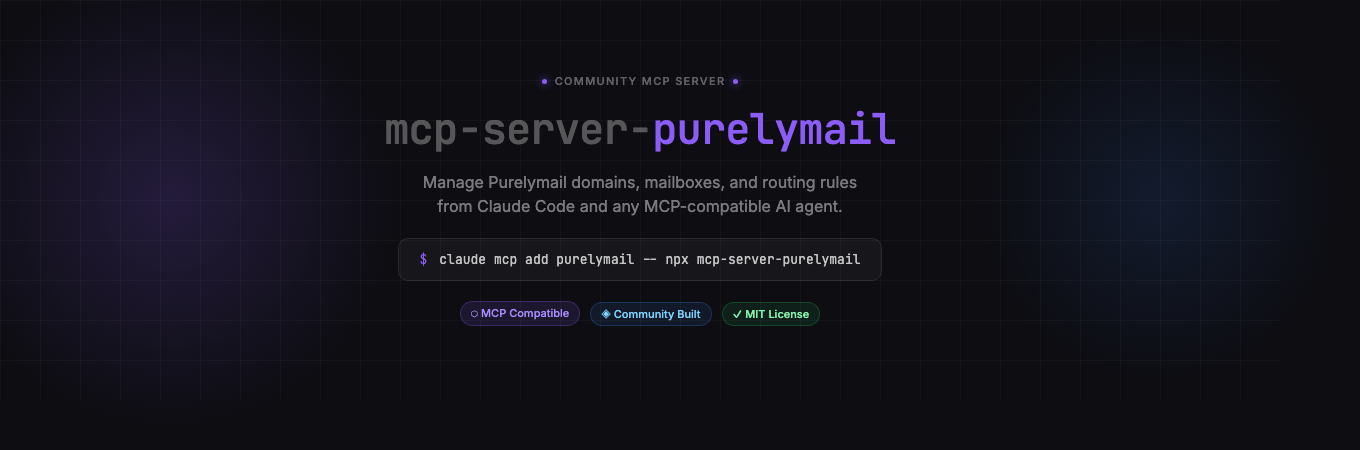
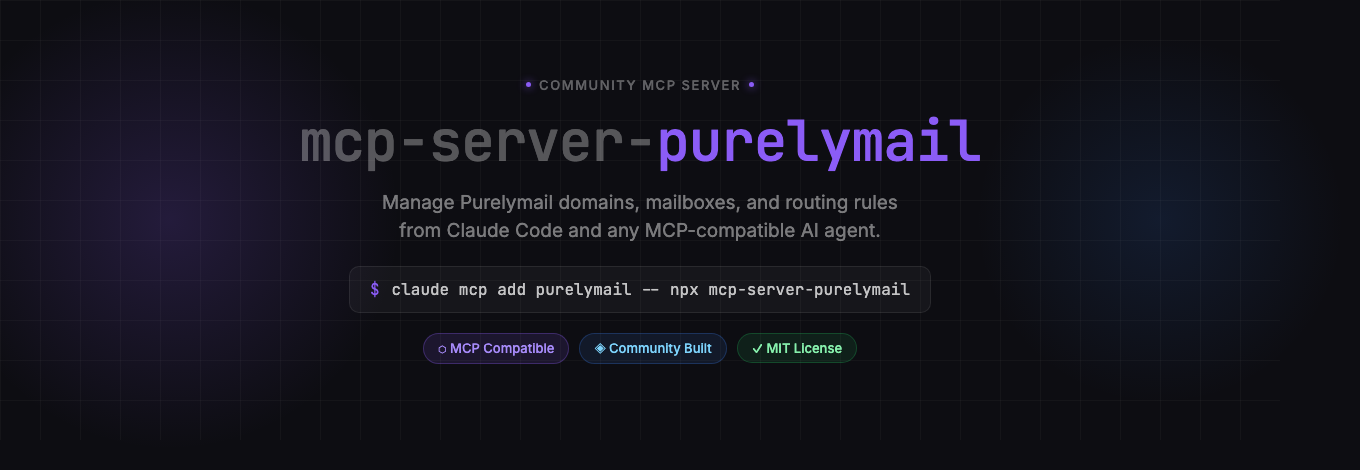
design: scale up hero and diagram images
Hero: +10% taller (440px), larger title (56px), tagline (19px),
install command (16px), and badges (13px) for better readability.

Diagram: +53% taller (520px), all elements scaled up ~35%,
layout spans full width with centered distribution, wider
connecting lines, larger node icons and card text.

Changed region(s): [[0.2162, 0.2489, 0.7412, 0.5289], [0.2471, 0.56, 0.6794, 0.7778], [0.3706, 0.1556, 0.5559, 0.1867]]

diff --git a/assets/diagram.html b/assets/diagram.html
@@ -10,7 +10,7 @@
   *, *::before, *::after { box-sizing: border-box; margin: 0; padding: 0; }
   body {
     width: 1280px;
-    height: 340px;
+    height: 520px;
     overflow: hidden;
     background: #0d0d12;
     font-family: 'Inter', system-ui, sans-serif;
@@ -42,8 +42,9 @@
     z-index: 1;
     display: flex;
     align-items: center;
-    gap: 0;
-    width: 1100px;
+    justify-content: center;
+    gap: 24px;
+    width: 1240px;
   }
 
   /* ── Nodes ── */
@@ -55,8 +56,8 @@
     flex-shrink: 0;
   }
   .node-icon {
-    width: 72px; height: 72px;
-    border-radius: 18px;
+    width: 96px; height: 96px;
+    border-radius: 22px;
     display: flex;
     align-items: center;
     justify-content: center;
@@ -64,21 +65,21 @@
     position: relative;
     overflow: hidden;
   }
-  .node-icon img { width: 42px; height: 42px; object-fit: contain; }
+  .node-icon img { width: 56px; height: 56px; object-fit: contain; }
   .node-icon-claude {
     background: rgba(255,255,255,0.04);
     border-color: rgba(255,255,255,0.1);
   }
-  .node-icon-claude .claude-svg { width: 44px; height: 44px; }
+  .node-icon-claude .claude-svg { width: 58px; height: 58px; }
   .node-title {
-    font-size: 12px; font-weight: 600;
+    font-size: 15px; font-weight: 600;
     color: rgba(255,255,255,0.8);
     white-space: nowrap;
     text-align: center;
   }
   .node-sub {
     font-family: 'JetBrains Mono', monospace;
-    font-size: 9px; color: rgba(255,255,255,0.28);
+    font-size: 11px; color: rgba(255,255,255,0.28);
     white-space: nowrap; text-align: center;
   }
 
@@ -89,17 +90,17 @@
     justify-content: center;
     gap: 0;
     margin: 0 8px;
-    margin-bottom: 26px;
+    margin-bottom: 40px;
   }
   .fork-arm {
     display: flex;
     align-items: center;
     gap: 0;
   }
-  .fork-arm-top { padding-bottom: 16px; }
-  .fork-arm-bottom { padding-top: 16px; }
+  .fork-arm-top { padding-bottom: 36px; }
+  .fork-arm-bottom { padding-top: 36px; }
   .fork-line-h {
-    width: 72px; height: 1px;
+    width: 140px; height: 1px;
     background: linear-gradient(90deg, rgba(255,255,255,0.12), var(--line-color));
     position: relative;
   }
@@ -117,7 +118,7 @@
     margin-left: 0;
   }
   .arm-label {
-    font-size: 8.5px; font-weight: 500;
+    font-size: 11px; font-weight: 500;
     letter-spacing: 0.1em; text-transform: uppercase;
     color: rgba(255,255,255,0.2);
     padding: 0 6px;
@@ -128,18 +129,18 @@
   .pair-col {
     display: flex;
     flex-direction: column;
-    gap: 10px;
+    gap: 20px;
   }
 
   /* ── Single MCP card ── */
   .mcp-card {
     display: flex;
     align-items: center;
-    gap: 10px;
-    padding: 10px 14px;
-    border-radius: 12px;
+    gap: 14px;
+    padding: 16px 20px;
+    border-radius: 16px;
     border: 1px solid;
-    width: 260px;
+    width: 320px;
   }
   .mcp-card-cf {
     background: rgba(246,130,31,0.06);
@@ -151,30 +152,30 @@
     box-shadow: 0 0 20px rgba(139,92,246,0.08);
   }
   .mcp-card-logo {
-    width: 32px; height: 32px;
+    width: 44px; height: 44px;
     flex-shrink: 0;
     display: flex; align-items: center; justify-content: center;
-    border-radius: 8px;
+    border-radius: 10px;
     overflow: hidden;
   }
-  .mcp-card-logo img { width: 26px; height: 26px; object-fit: contain; }
-  .mcp-card-body { display: flex; flex-direction: column; gap: 2px; }
+  .mcp-card-logo img { width: 36px; height: 36px; object-fit: contain; }
+  .mcp-card-body { display: flex; flex-direction: column; gap: 4px; }
   .mcp-card-name {
-    font-size: 11.5px; font-weight: 600;
+    font-size: 15px; font-weight: 600;
     color: rgba(255,255,255,0.8);
     white-space: nowrap;
   }
   .mcp-card-npm {
     font-family: 'JetBrains Mono', monospace;
-    font-size: 9px; color: rgba(255,255,255,0.28);
+    font-size: 11px; color: rgba(255,255,255,0.28);
   }
 
   /* ── Arrow between MCP and service ── */
   .arrow-h {
-    width: 52px; height: 1px;
+    width: 100px; height: 1px;
     position: relative;
     flex-shrink: 0;
-    margin-bottom: 26px;
+    margin-bottom: 40px;
   }
   .arrow-h::before {
     content: '';
@@ -195,32 +196,32 @@
   .service-col {
     display: flex;
     flex-direction: column;
-    gap: 10px;
+    gap: 20px;
   }
   .service-node {
     display: flex;
     flex-direction: column;
     align-items: center;
-    gap: 6px;
-    width: 110px;
+    gap: 10px;
+    width: 140px;
   }
   .service-icon {
-    width: 48px; height: 48px;
-    border-radius: 12px;
+    width: 64px; height: 64px;
+    border-radius: 14px;
     display: flex; align-items: center; justify-content: center;
     border: 1px solid;
     overflow: hidden;
   }
-  .service-icon img { width: 30px; height: 30px; object-fit: contain; }
+  .service-icon img { width: 42px; height: 42px; object-fit: contain; }
   .service-icon-cf { background: rgba(246,130,31,0.08); border-color: rgba(246,130,31,0.22); }
   .service-icon-pm { background: rgba(139,92,246,0.1); border-color: rgba(139,92,246,0.28); }
   .service-name {
-    font-size: 10.5px; font-weight: 600;
+    font-size: 14px; font-weight: 600;
     color: rgba(255,255,255,0.65);
     white-space: nowrap;
   }
   .service-role {
-    font-size: 8.5px;
+    font-size: 11px;
     color: rgba(255,255,255,0.25);
     text-align: center;
     line-height: 1.35;
@@ -229,8 +230,8 @@
 
   /* ── Outcome badge ── */
   .outcome {
-    margin-left: 32px;
-    margin-bottom: 26px;
+    margin-left: 48px;
+    margin-bottom: 40px;
     display: flex;
     flex-direction: column;
     align-items: center;
@@ -239,21 +240,21 @@
   .outcome-badge {
     background: linear-gradient(135deg, rgba(139,92,246,0.15), rgba(59,130,246,0.1));
     border: 1px solid rgba(139,92,246,0.3);
-    border-radius: 14px;
-    padding: 14px 20px;
+    border-radius: 16px;
+    padding: 22px 30px;
     text-align: center;
-    max-width: 170px;
+    max-width: 210px;
   }
-  .outcome-emoji { font-size: 22px; }
+  .outcome-emoji { font-size: 32px; }
   .outcome-title {
-    margin-top: 6px;
-    font-size: 12px; font-weight: 700;
+    margin-top: 8px;
+    font-size: 16px; font-weight: 700;
     color: rgba(255,255,255,0.9);
     line-height: 1.3;
   }
   .outcome-sub {
-    margin-top: 4px;
-    font-size: 9.5px;
+    margin-top: 6px;
+    font-size: 13px;
     color: rgba(255,255,255,0.35);
     line-height: 1.4;
   }
@@ -287,7 +288,7 @@
     <!-- top arm: CF -->
     <div class="fork-arm fork-arm-top">
       <div style="display:flex;flex-direction:column;align-items:flex-end">
-        <div style="width:1px;height:17px;background:rgba(255,255,255,0.06);margin-left:0"></div>
+        <div style="width:1px;height:25px;background:rgba(255,255,255,0.06);margin-left:0"></div>
         <div class="fork-line-h" style="--line-color: rgba(246,130,31,0.45)"></div>
       </div>
     </div>
@@ -295,7 +296,7 @@
     <div class="fork-arm fork-arm-bottom">
       <div style="display:flex;flex-direction:column;align-items:flex-end">
         <div class="fork-line-h" style="--line-color: rgba(139,92,246,0.5)"></div>
-        <div style="width:1px;height:17px;background:rgba(255,255,255,0.06);margin-left:0"></div>
+        <div style="width:1px;height:25px;background:rgba(255,255,255,0.06);margin-left:0"></div>
       </div>
     </div>
   </div>
@@ -326,13 +327,13 @@
 
   <!-- Arrows to services -->
   <div style="display:flex;flex-direction:column;gap:10px;margin-bottom:26px;">
-    <div class="arrow-h" style="--arrow-color: rgba(246,130,31,0.4); margin-bottom:0; height:48px; width:52px; display:flex; align-items:center;">
-      <div style="width:52px;height:1px;background:linear-gradient(90deg,rgba(246,130,31,0.35),rgba(246,130,31,0.1));position:relative;">
+    <div class="arrow-h" style="--arrow-color: rgba(246,130,31,0.4); margin-bottom:0; height:68px; width:100px; display:flex; align-items:center;">
+      <div style="width:100px;height:1px;background:linear-gradient(90deg,rgba(246,130,31,0.35),rgba(246,130,31,0.1));position:relative;">
         <div style="position:absolute;right:-1px;top:-3px;border-top:3.5px solid transparent;border-bottom:3.5px solid transparent;border-left:6px solid rgba(246,130,31,0.4);"></div>
       </div>
     </div>
-    <div style="height:10px;"></div>
-    <div style="width:52px;height:1px;background:linear-gradient(90deg,rgba(139,92,246,0.45),rgba(139,92,246,0.1));position:relative;margin-top:4px;">
+    <div style="height:20px;"></div>
+    <div style="width:100px;height:1px;background:linear-gradient(90deg,rgba(139,92,246,0.45),rgba(139,92,246,0.1));position:relative;margin-top:4px;">
       <div style="position:absolute;right:-1px;top:-3px;border-top:3.5px solid transparent;border-bottom:3.5px solid transparent;border-left:6px solid rgba(139,92,246,0.5);"></div>
     </div>
   </div>

diff --git a/assets/hero.html b/assets/hero.html
@@ -11,7 +11,7 @@
 
   body {
     width: 1280px;
-    height: 400px;
+    height: 440px;
     overflow: hidden;
     background: #0d0d12;
     font-family: 'Inter', system-ui, sans-serif;
@@ -70,7 +70,7 @@
     display: flex;
     align-items: center;
     gap: 8px;
-    font-size: 11px;
+    font-size: 13px;
     font-weight: 500;
     letter-spacing: 0.12em;
     text-transform: uppercase;
@@ -87,7 +87,7 @@
 
   .title {
     font-family: 'JetBrains Mono', monospace;
-    font-size: 42px;
+    font-size: 56px;
     font-weight: 500;
     color: #f1f5f9;
     letter-spacing: -0.02em;
@@ -99,7 +99,7 @@
   .title .accent { color: #8b5cf6; }
 
   .tagline {
-    font-size: 16px;
+    font-size: 19px;
     font-weight: 400;
     color: rgba(255,255,255,0.45);
     max-width: 540px;
@@ -118,14 +118,14 @@
 
   .install-prompt {
     font-family: 'JetBrains Mono', monospace;
-    font-size: 13px;
+    font-size: 16px;
     color: #8b5cf6;
     user-select: none;
   }
 
   .install-cmd {
     font-family: 'JetBrains Mono', monospace;
-    font-size: 13px;
+    font-size: 16px;
     color: rgba(255,255,255,0.75);
   }
 
@@ -139,9 +139,9 @@
     display: flex;
     align-items: center;
     gap: 6px;
-    padding: 4px 10px;
+    padding: 6px 14px;
     border-radius: 20px;
-    font-size: 11px;
+    font-size: 13px;
     font-weight: 500;
     border: 1px solid;
   }